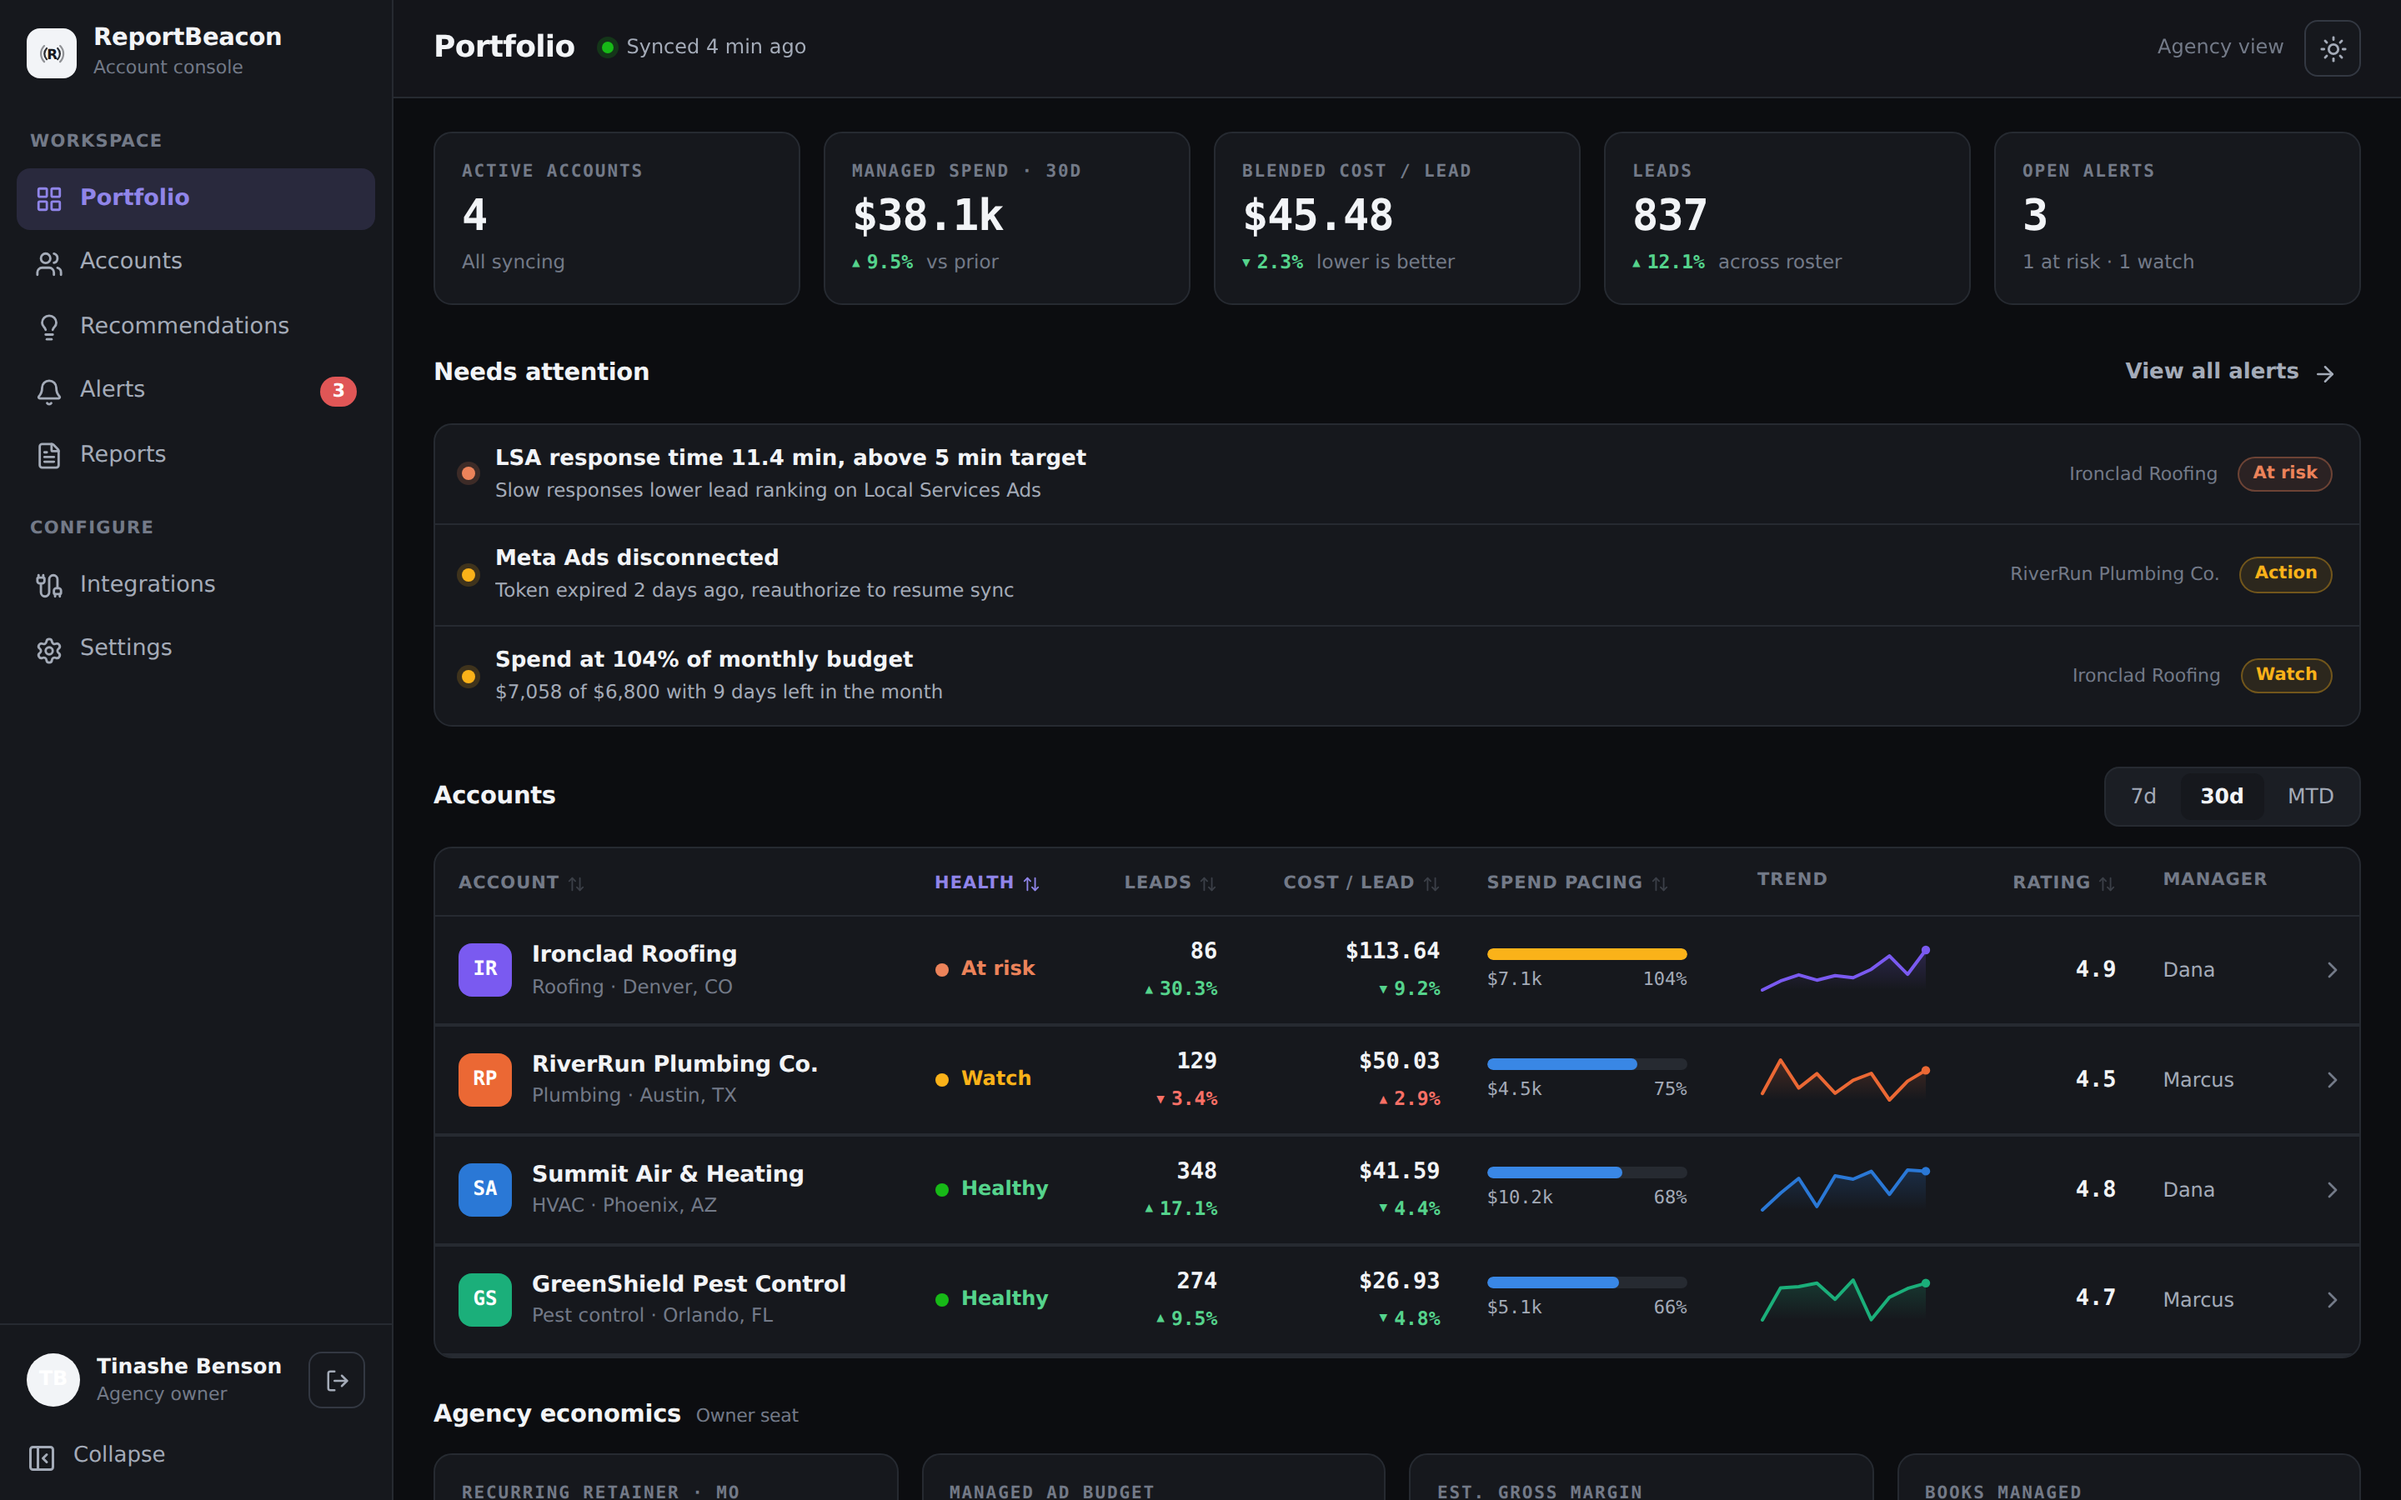
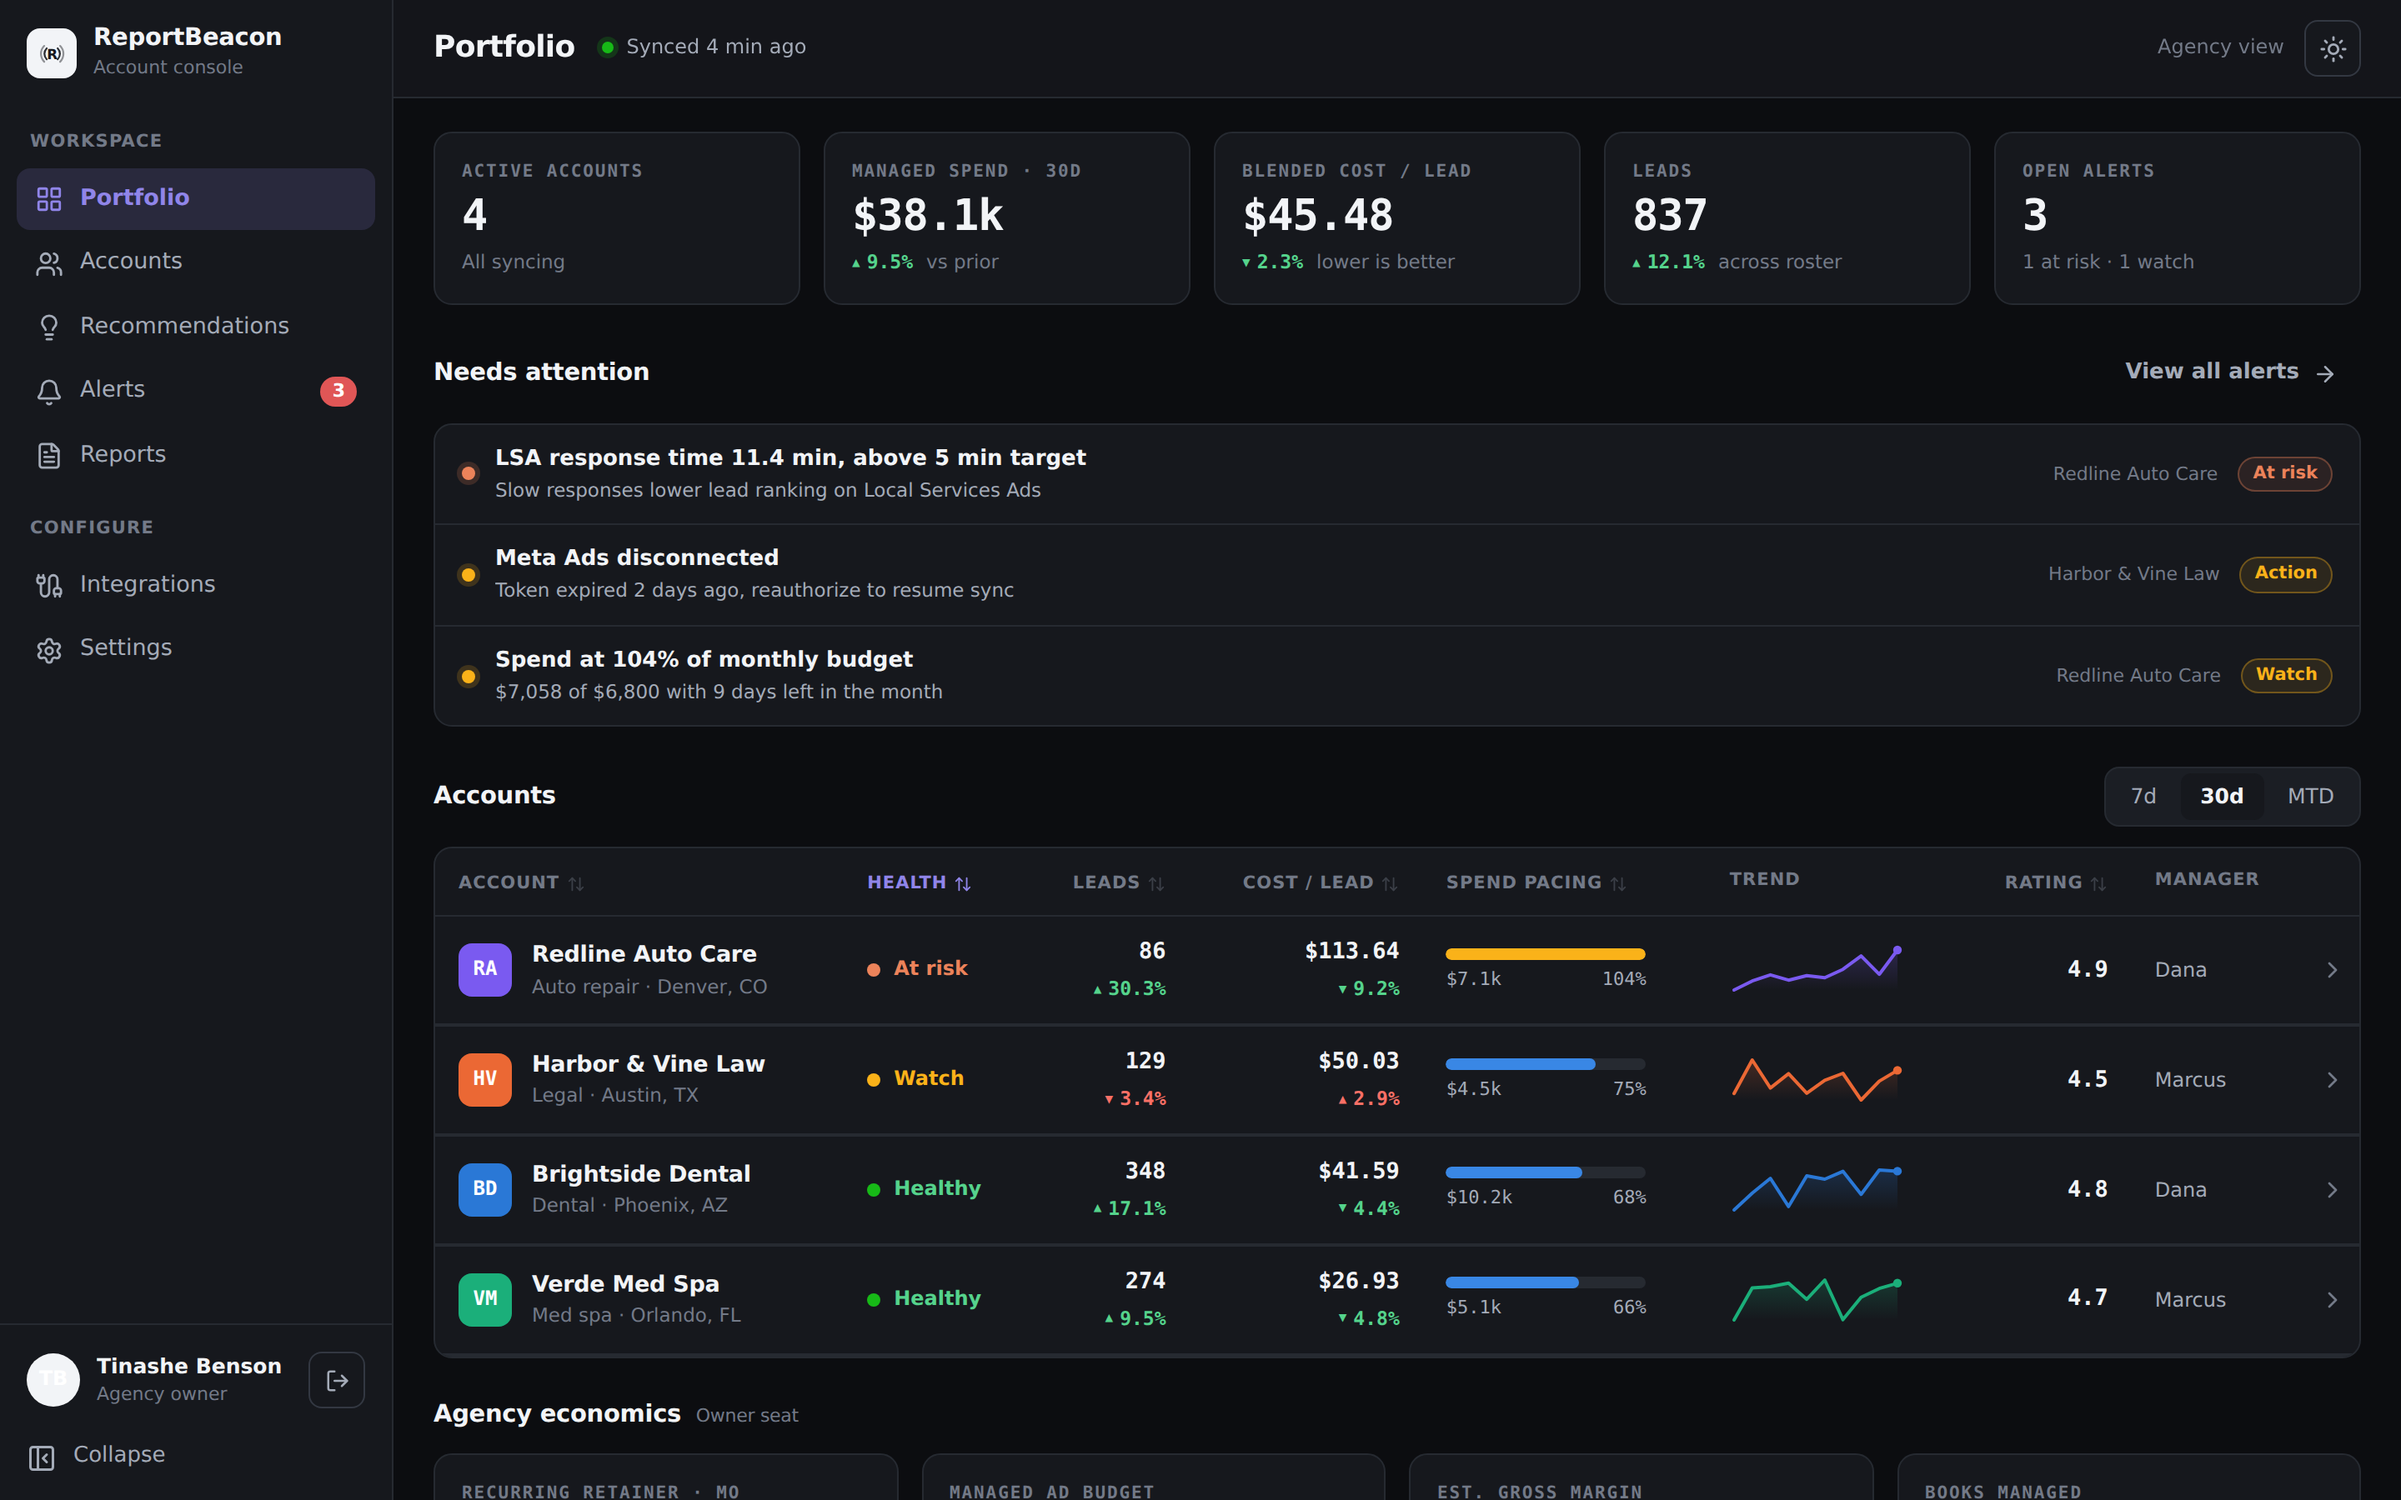
Broaden positioning to marketing agencies, not just home services
The product is for any marketing agency compiling client reports across ads,
SEO, PPC and social, so the copy and the demo should not read as
home-services-specific.

- Landing: hero, platform list and feature intro rewritten around bringing
  the ad, SEO and analytics platforms an agency reports on into one console.
  Platform chips broadened (Google Ads, Meta, GA4, GBP, SEMrush, LinkedIn,
  TikTok, LSA, and more).
- Demo roster changed from four home-service trades to a varied agency book
  where the same channels still apply: Brightside Dental, Verde Med Spa,
  Harbor & Vine Law, Redline Auto Care. Every metric, seed and trend is
  unchanged; only identities and tracked keywords differ. Seat assignments
  and preview screenshots updated to match.
- LLM system prompt and head/OG meta reworded away from home services.

Claude-Session: https://claude.ai/code/session_01JQLcmRPkR7B6ktMCoBuYBo

diff --git a/src/lib/data.ts b/src/lib/data.ts
@@ -43,8 +43,8 @@ export interface Seat {
 
 export const SEATS: Seat[] = [
   { id: 'owner', name: 'Tinashe Benson', initials: 'TB', role: 'owner', title: 'Agency owner', accountIds: [] },
-  { id: 'dana', name: 'Dana Okafor', initials: 'DO', role: 'manager', title: 'Account manager', accountIds: ['summit-air', 'ironclad-roofing'] },
-  { id: 'marcus', name: 'Marcus Reyes', initials: 'MR', role: 'manager', title: 'Account manager', accountIds: ['riverrun-plumbing', 'greenshield-pest'] },
+  { id: 'dana', name: 'Dana Okafor', initials: 'DO', role: 'manager', title: 'Account manager', accountIds: ['brightside-dental', 'redline-auto'] },
+  { id: 'marcus', name: 'Marcus Reyes', initials: 'MR', role: 'manager', title: 'Account manager', accountIds: ['harbor-vine-law', 'verde-medspa'] },
 ]
 
 export function getSeat(id: string): Seat | undefined {
@@ -149,7 +149,7 @@ export interface KeywordMove {
 export interface Account {
   id: string
   name: string
-  trade: 'HVAC' | 'Plumbing' | 'Roofing' | 'Pest control'
+  trade: 'Dental' | 'Med spa' | 'Legal' | 'Auto repair'
   location: string
   mark: string
   color: string
@@ -175,11 +175,11 @@ export interface Account {
 
 export const ACCOUNTS: Account[] = [
   {
-    id: 'summit-air',
-    name: 'Summit Air & Heating',
-    trade: 'HVAC',
+    id: 'brightside-dental',
+    name: 'Brightside Dental',
+    trade: 'Dental',
     location: 'Phoenix, AZ',
-    mark: 'SA',
+    mark: 'BD',
     color: '#2a78d6',
     budget: 15000,
     retainer: 3200,
@@ -194,22 +194,22 @@ export const ACCOUNTS: Account[] = [
     semrush: {
       keywords: 214, visibility: 38.6, visibilityDelta: 4.1, series: short(17, 31, 2.2, 1.0),
       gaining: [
-        { term: 'emergency ac repair phoenix', from: 14, to: 4 },
-        { term: 'hvac tune up near me', from: 9, to: 3 },
-        { term: 'ac installation cost az', from: 22, to: 12 },
+        { term: 'invisalign phoenix', from: 14, to: 4 },
+        { term: 'emergency dentist near me', from: 9, to: 3 },
+        { term: 'dental implants cost az', from: 22, to: 12 },
       ],
       losing: [
-        { term: 'furnace repair phoenix', from: 6, to: 11 },
-        { term: 'ductless mini split install', from: 8, to: 13 },
+        { term: 'teeth whitening phoenix', from: 6, to: 11 },
+        { term: 'pediatric dentist near me', from: 8, to: 13 },
       ],
     },
   },
   {
-    id: 'greenshield-pest',
-    name: 'GreenShield Pest Control',
-    trade: 'Pest control',
+    id: 'verde-medspa',
+    name: 'Verde Med Spa',
+    trade: 'Med spa',
     location: 'Orlando, FL',
-    mark: 'GS',
+    mark: 'VM',
     color: '#1baf7a',
     budget: 7800,
     retainer: 2100,
@@ -224,21 +224,21 @@ export const ACCOUNTS: Account[] = [
     semrush: {
       keywords: 178, visibility: 34.2, visibilityDelta: 2.3, series: short(47, 30, 2.0, 0.6),
       gaining: [
-        { term: 'mosquito control orlando', from: 11, to: 4 },
-        { term: 'termite inspection near me', from: 16, to: 8 },
+        { term: 'botox orlando', from: 11, to: 4 },
+        { term: 'laser hair removal near me', from: 16, to: 8 },
       ],
       losing: [
-        { term: 'bed bug treatment orlando', from: 6, to: 10 },
-        { term: 'rodent removal', from: 7, to: 12 },
+        { term: 'chemical peel orlando', from: 6, to: 10 },
+        { term: 'coolsculpting near me', from: 7, to: 12 },
       ],
     },
   },
   {
-    id: 'riverrun-plumbing',
-    name: 'RiverRun Plumbing Co.',
-    trade: 'Plumbing',
+    id: 'harbor-vine-law',
+    name: 'Harbor & Vine Law',
+    trade: 'Legal',
     location: 'Austin, TX',
-    mark: 'RP',
+    mark: 'HV',
     color: '#eb6834',
     budget: 6000,
     retainer: 1750,
@@ -253,22 +253,22 @@ export const ACCOUNTS: Account[] = [
     semrush: {
       keywords: 96, visibility: 21.3, visibilityDelta: -1.6, series: short(27, 24, 1.8, -0.5),
       gaining: [
-        { term: 'tankless water heater austin', from: 19, to: 9 },
-        { term: 'slab leak detection', from: 15, to: 8 },
+        { term: 'car accident lawyer austin', from: 19, to: 9 },
+        { term: 'personal injury attorney', from: 15, to: 8 },
       ],
       losing: [
-        { term: 'drain cleaning austin', from: 4, to: 9 },
-        { term: 'emergency plumber near me', from: 7, to: 14 },
-        { term: 'water heater repair', from: 5, to: 10 },
+        { term: 'slip and fall lawyer austin', from: 4, to: 9 },
+        { term: 'workers comp attorney', from: 7, to: 14 },
+        { term: 'motorcycle accident lawyer', from: 5, to: 10 },
       ],
     },
   },
   {
-    id: 'ironclad-roofing',
-    name: 'Ironclad Roofing',
-    trade: 'Roofing',
+    id: 'redline-auto',
+    name: 'Redline Auto Care',
+    trade: 'Auto repair',
     location: 'Denver, CO',
-    mark: 'IR',
+    mark: 'RA',
     color: '#7a5af0',
     budget: 6800,
     retainer: 2600,
@@ -283,11 +283,11 @@ export const ACCOUNTS: Account[] = [
     semrush: {
       keywords: 143, visibility: 29.8, visibilityDelta: 6.7, series: short(37, 21, 2.4, 1.4),
       gaining: [
-        { term: 'hail damage roof repair denver', from: 17, to: 5 },
-        { term: 'metal roof installation colorado', from: 24, to: 11 },
-        { term: 'roof replacement cost denver', from: 12, to: 6 },
+        { term: 'brake repair denver', from: 17, to: 5 },
+        { term: 'transmission repair colorado', from: 24, to: 11 },
+        { term: 'check engine light diagnostic', from: 12, to: 6 },
       ],
-      losing: [{ term: 'gutter installation denver', from: 9, to: 15 }],
+      losing: [{ term: 'oil change near me denver', from: 9, to: 15 }],
     },
   },
 ]

diff --git a/src/pages/Landing.tsx b/src/pages/Landing.tsx
@@ -58,8 +58,8 @@ export default function Landing() {
           <h1 className="mt-6 text-[38px] md:text-[56px] font-bold tracking-[-0.03em] leading-[1.05] max-w-[820px] mx-auto" style={{ textWrap: 'balance' } as any}>
             Every client account you run, on one screen
           </h1>
-          <p className="mt-5 text-[16px] md:text-[18px] text-[var(--ink-2)] max-w-[620px] mx-auto leading-relaxed">
-            ReportBeacon pulls Local Services Ads, Google Ads, Google Business Profile, Meta and SEMrush into a single console, so an account manager can see how every home-service client is doing without opening five tabs.
+          <p className="mt-5 text-[16px] md:text-[18px] text-[var(--ink-2)] max-w-[640px] mx-auto leading-relaxed">
+            ReportBeacon brings the ad, SEO, and analytics platforms your agency already runs into one console. Every metric you pull together for a client report, in one place, so your team stops stitching screenshots from a dozen tabs.
           </p>
           <div className="mt-8 flex flex-wrap items-center justify-center gap-3">
             <Link to="/app" className="inline-flex items-center gap-2 text-[15px] font-semibold px-5 py-3 rounded-[10px] bg-[var(--accent)] text-white hover:opacity-90 transition-opacity">
@@ -86,11 +86,12 @@ export default function Landing() {
       {/* Platform row */}
       <Rise>
         <section className="mx-auto max-w-[1120px] px-5 py-8">
-          <p className="text-center text-[12px] font-semibold uppercase tracking-[0.08em] text-[var(--muted)] mb-4">Built to connect</p>
+          <p className="text-center text-[12px] font-semibold uppercase tracking-[0.08em] text-[var(--muted)] mb-4">Connect the platforms you report on</p>
           <div className="flex flex-wrap items-center justify-center gap-x-3 gap-y-2">
-            {['Local Services Ads', 'Google Ads', 'Google Business Profile', 'Meta Ads', 'SEMrush'].map((p) => (
+            {['Google Ads', 'Meta Ads', 'Google Analytics 4', 'Google Business Profile', 'SEMrush', 'LinkedIn Ads', 'TikTok Ads', 'Local Services Ads'].map((p) => (
               <span key={p} className="text-[13.5px] font-medium px-3.5 py-1.5 rounded-full bg-[var(--surface)] border border-[var(--line)] text-[var(--ink-2)]">{p}</span>
             ))}
+            <span className="text-[13.5px] font-medium px-1.5 py-1.5 text-[var(--muted)]">and more</span>
           </div>
         </section>
       </Rise>
@@ -100,7 +101,7 @@ export default function Landing() {
         <Rise>
           <div className="text-center max-w-[600px] mx-auto mb-12">
             <h2 className="text-[28px] md:text-[34px] font-bold tracking-[-0.02em]">What it does</h2>
-            <p className="mt-3 text-[15px] text-[var(--ink-2)]">Four things an agency actually needs when it manages a roster of paid accounts.</p>
+            <p className="mt-3 text-[15px] text-[var(--ink-2)]">Four things an agency actually needs when it runs marketing for a roster of clients.</p>
           </div>
         </Rise>
         <div className="grid md:grid-cols-2 gap-5">

diff --git a/index.html b/index.html
@@ -6,7 +6,7 @@
     <meta name="theme-color" content="#f7f8fa" />
     <meta name="robots" content="noindex, nofollow" />
     <title>ReportBeacon</title>
-    <meta name="description" content="An interactive demo: one console for every client's Local Services Ads, Google Ads, Google Business Profile, Meta and SEMrush, with budget recommendations and print-ready reports." />
+    <meta name="description" content="An interactive demo for marketing agencies: bring the ad, SEO and analytics platforms you report on into one console, with budget recommendations and print-ready client reports." />
 
[1 lines of base64/hex data omitted]
 
@@ -14,7 +14,7 @@
     <meta property="og:type" content="website" />
     <meta property="og:site_name" content="Tinashe Benson" />
     <meta property="og:title" content="ReportBeacon" />
-    <meta property="og:description" content="Every client account you run on one screen. One console across Local Services Ads, Google Ads, Google Business Profile, Meta and SEMrush. Try the live demo." />
+    <meta property="og:description" content="Every client account your agency runs, on one screen. Bring your ad, SEO and analytics platforms into one console and compile a client report without the tab juggling. Try the live demo." />
     <meta property="og:url" content="https://demo.tinashebenson.com/" />
     <meta property="og:image" content="https://demo.tinashebenson.com/preview-light.png" />
     <meta name="twitter:card" content="summary_large_image" />

diff --git a/src/lib/llm.ts b/src/lib/llm.ts
@@ -50,7 +50,7 @@ function accountBrief(a: Account) {
   }
 }
 
-const SYSTEM = `You are a senior paid-media strategist at a marketing agency for home-service businesses (HVAC, plumbing, roofing, pest control). Given one account's cross-channel numbers, return 3 to 5 specific, high-leverage recommendations, prioritising budget reallocation and spend efficiency. Respond with ONLY a JSON array, no prose. Each item: {"category": one of "budget"|"optimize"|"reputation"|"seo"|"ops", "priority": "high"|"medium"|"low", "title": short imperative, "rationale": one sentence, "impact": estimated outcome, "action": 2-4 word button label}.`
+const SYSTEM = `You are a senior strategist at a marketing agency that runs paid ads, SEO and local marketing for clients across many industries. Given one client's cross-channel numbers, return 3 to 5 specific, high-leverage recommendations, prioritising budget reallocation and spend efficiency. Respond with ONLY a JSON array, no prose. Each item: {"category": one of "budget"|"optimize"|"reputation"|"seo"|"ops", "priority": "high"|"medium"|"low", "title": short imperative, "rationale": one sentence, "impact": estimated outcome, "action": 2-4 word button label}.`
 
 export async function generateLive(a: Account, cfg: AIConfig): Promise<Recommendation[]> {
   const res = await fetch('https://openrouter.ai/api/v1/chat/completions', {
